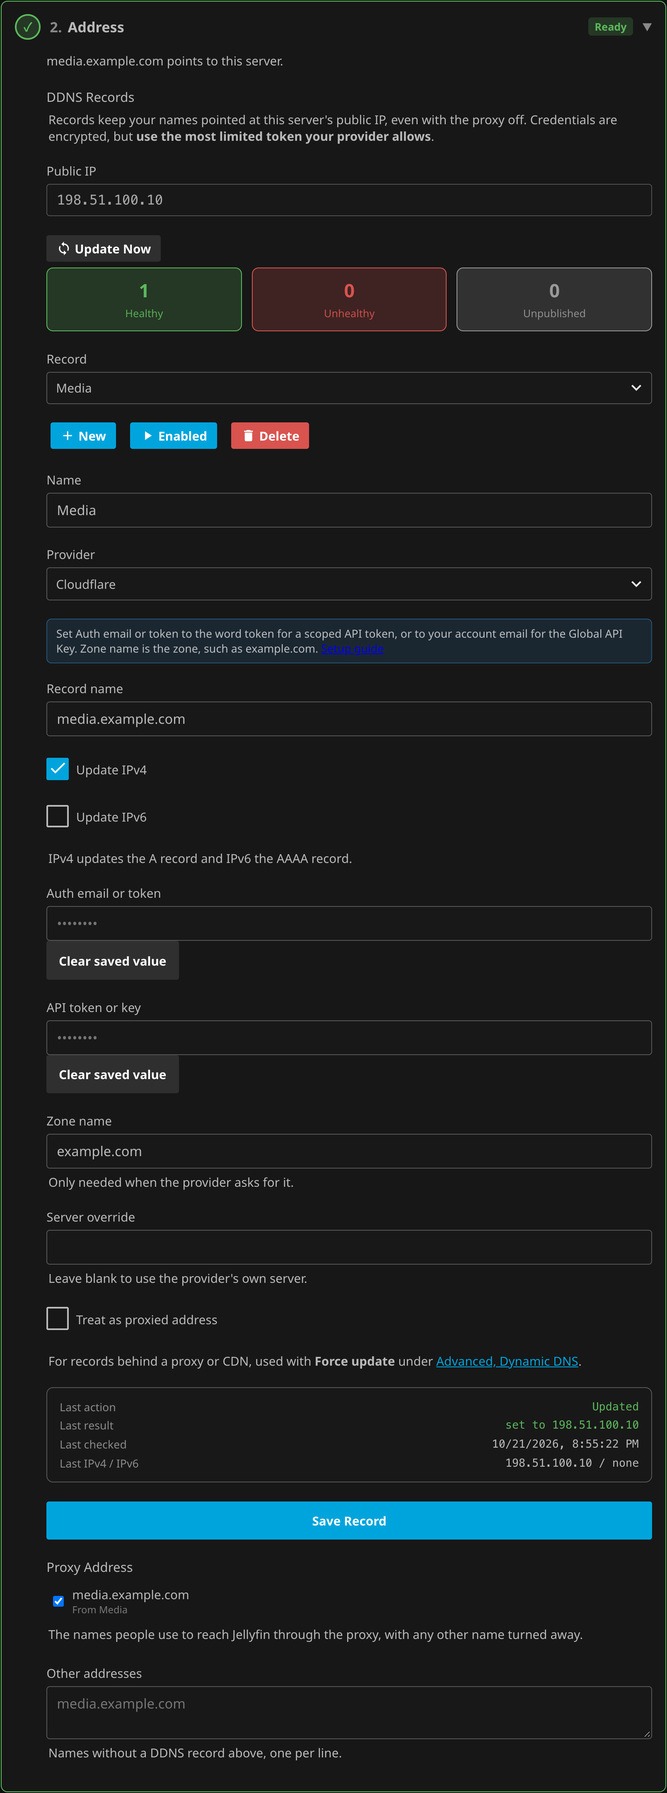
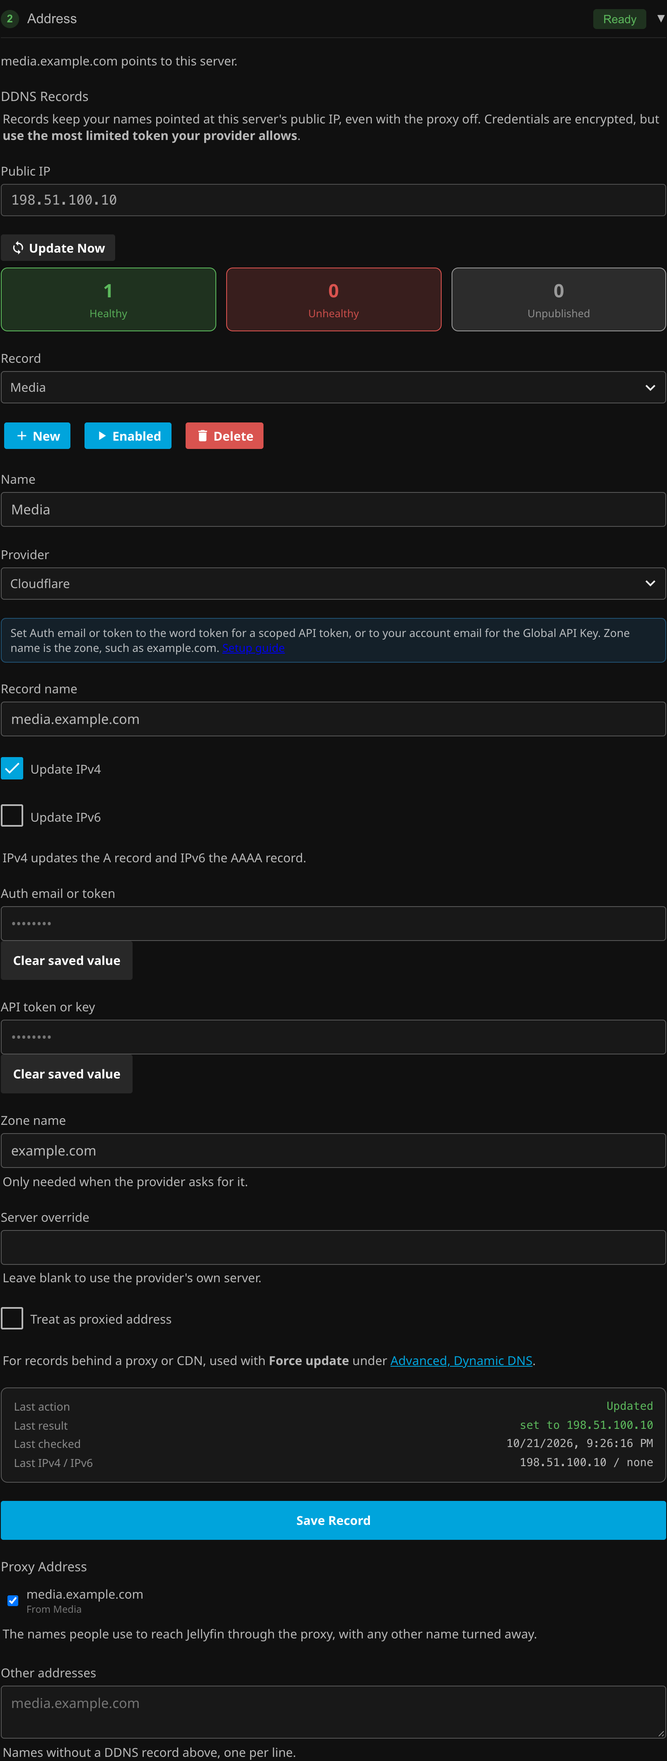
Use the shared collapsible steps and badges on Configuration, and restyle the share card

diff --git a/Jellyfin.Plugin.RemoteAccess/Configuration/ddns_configuration.html b/Jellyfin.Plugin.RemoteAccess/Configuration/ddns_configuration.html
@@ -18,19 +18,16 @@
                     <div id="everyoneLocal" class="jpk-warn hidden"></div>
                     <div id="countryNote" class="jpk-info hidden"></div>
 
-                    <ol class="ddns-steps">
+                    <div class="ddns-steps">
 
                         <!-- Step 1: the proxy itself -->
-                        <li class="ddns-step" id="stepPower" data-state="gray">
-                            <h2 class="ddns-step-heading">
-                                <button type="button" class="ddns-step-head" data-step="Power" aria-expanded="true" aria-controls="bodyPower">
-                                    <span class="ddns-step-icon" id="iconPower" aria-hidden="true"></span>
-                                    <span class="ddns-step-title"><span class="ddns-step-num">1.</span> Proxy on</span>
-                                    <span class="ddns-step-state" id="statePower"></span>
-                                    <span class="ddns-step-chevron" aria-hidden="true">&#9660;</span>
-                                </button>
-                            </h2>
-                            <div class="ddns-step-body" id="bodyPower">
+                        <div class="jpk-collapsible-section ddns-step" id="stepPower" data-state="gray">
+                            <button type="button" class="jpk-collapsible-header" data-target="bodyPower" aria-expanded="true" aria-controls="bodyPower">
+                                <span class="jpk-collapsible-title jpk-step-title"><span class="jpk-step-number" id="iconPower" aria-hidden="true">1</span>Proxy on</span>
+                                <span class="jpk-badge gray" id="statePower"></span>
+                                <span class="jpk-collapsible-icon" aria-hidden="true">&#9660;</span>
+                            </button>
+                            <div class="jpk-collapsible-content" id="bodyPower">
                                 <div class="ddns-step-text" id="textPower" aria-live="polite"></div>
                                 <div class="checkboxContainer checkboxContainer-withDescription">
                                     <label class="emby-checkbox-label">
@@ -40,19 +37,16 @@
                                     <div class="fieldDescription checkboxFieldDescription">Starts the proxy once saved, and Jellyfin is untouched until you select Trust the Proxy in step 5.</div>
                                 </div>
                             </div>
-                        </li>
+                        </div>
 
                         <!-- Step 2: the address, with the DDNS records that keep it current -->
-                        <li class="ddns-step" id="stepAddress" data-state="gray">
-                            <h2 class="ddns-step-heading">
-                                <button type="button" class="ddns-step-head" data-step="Address" aria-expanded="true" aria-controls="bodyAddress">
-                                    <span class="ddns-step-icon" id="iconAddress" aria-hidden="true"></span>
-                                    <span class="ddns-step-title"><span class="ddns-step-num">2.</span> Address</span>
-                                    <span class="ddns-step-state" id="stateAddress"></span>
-                                    <span class="ddns-step-chevron" aria-hidden="true">&#9660;</span>
-                                </button>
-                            </h2>
-                            <div class="ddns-step-body" id="bodyAddress">
+                        <div class="jpk-collapsible-section ddns-step" id="stepAddress" data-state="gray">
+                            <button type="button" class="jpk-collapsible-header" data-target="bodyAddress" aria-expanded="true" aria-controls="bodyAddress">
+                                <span class="jpk-collapsible-title jpk-step-title"><span class="jpk-step-number" id="iconAddress" aria-hidden="true">2</span>Address</span>
+                                <span class="jpk-badge gray" id="stateAddress"></span>
+                                <span class="jpk-collapsible-icon" aria-hidden="true">&#9660;</span>
+                            </button>
+                            <div class="jpk-collapsible-content" id="bodyAddress">
                                 <div class="ddns-step-text" id="textAddress" aria-live="polite"></div>
                                 <div id="nameDetails" class="jpk-record-card hidden">
                                     <div class="jpk-record-row"><span class="jpk-record-label">Name</span><span id="nameHostname" class="jpk-mono"></span></div>
@@ -253,19 +247,16 @@
                                     <div class="fieldDescription">Names without a DDNS record above, one per line.</div>
                                 </div>
                             </div>
-                        </li>
+                        </div>
 
                         <!-- Step 3: the certificate -->
-                        <li class="ddns-step" id="stepCertificate" data-state="gray">
-                            <h2 class="ddns-step-heading">
-                                <button type="button" class="ddns-step-head" data-step="Certificate" aria-expanded="true" aria-controls="bodyCertificate">
-                                    <span class="ddns-step-icon" id="iconCertificate" aria-hidden="true"></span>
-                                    <span class="ddns-step-title"><span class="ddns-step-num">3.</span> Certificate</span>
-                                    <span class="ddns-step-state" id="stateCertificate"></span>
-                                    <span class="ddns-step-chevron" aria-hidden="true">&#9660;</span>
-                                </button>
-                            </h2>
-                            <div class="ddns-step-body" id="bodyCertificate">
+                        <div class="jpk-collapsible-section ddns-step" id="stepCertificate" data-state="gray">
+                            <button type="button" class="jpk-collapsible-header" data-target="bodyCertificate" aria-expanded="true" aria-controls="bodyCertificate">
+                                <span class="jpk-collapsible-title jpk-step-title"><span class="jpk-step-number" id="iconCertificate" aria-hidden="true">3</span>Certificate</span>
+                                <span class="jpk-badge gray" id="stateCertificate"></span>
+                                <span class="jpk-collapsible-icon" aria-hidden="true">&#9660;</span>
+                            </button>
+                            <div class="jpk-collapsible-content" id="bodyCertificate">
                                 <div class="ddns-step-text" id="textCertificate" aria-live="polite"></div>
                                 <div class="selectContainer">
                                     <label class="selectLabel" for="certMode">Source</label>
@@ -329,19 +320,16 @@
                                     <span id="certRequestStatus" class="jpk-status-text" aria-live="polite"></span>
                                 </div>
                             </div>
-                        </li>
+                        </div>
 
                         <!-- Step 4: the router -->
-                        <li class="ddns-step" id="stepRouter" data-state="gray">
-                            <h2 class="ddns-step-heading">
-                                <button type="button" class="ddns-step-head" data-step="Router" aria-expanded="true" aria-controls="bodyRouter">
-                                    <span class="ddns-step-icon" id="iconRouter" aria-hidden="true"></span>
-                                    <span class="ddns-step-title"><span class="ddns-step-num">4.</span> Router</span>
-                                    <span class="ddns-step-state" id="stateRouter"></span>
-                                    <span class="ddns-step-chevron" aria-hidden="true">&#9660;</span>
-                                </button>
-                            </h2>
-                            <div class="ddns-step-body" id="bodyRouter">
+                        <div class="jpk-collapsible-section ddns-step" id="stepRouter" data-state="gray">
+                            <button type="button" class="jpk-collapsible-header" data-target="bodyRouter" aria-expanded="true" aria-controls="bodyRouter">
+                                <span class="jpk-collapsible-title jpk-step-title"><span class="jpk-step-number" id="iconRouter" aria-hidden="true">4</span>Router</span>
+                                <span class="jpk-badge gray" id="stateRouter"></span>
+                                <span class="jpk-collapsible-icon" aria-hidden="true">&#9660;</span>
+                            </button>
+                            <div class="jpk-collapsible-content" id="bodyRouter">
                                 <div class="ddns-step-text" id="textRouter" aria-live="polite"></div>
                                 <div id="routerError" class="jpk-error hidden"></div>
                                 <div id="routerManual" class="hidden">
@@ -363,19 +351,16 @@
                                 </div>
                                 <span id="routerStatus" class="jpk-status-text" aria-live="polite"></span>
                             </div>
-                        </li>
+                        </div>
 
                         <!-- Step 5: Jellyfin trusts the proxy -->
-                        <li class="ddns-step" id="stepTrust" data-state="gray">
-                            <h2 class="ddns-step-heading">
-                                <button type="button" class="ddns-step-head" data-step="Trust" aria-expanded="true" aria-controls="bodyTrust">
-                                    <span class="ddns-step-icon" id="iconTrust" aria-hidden="true"></span>
-                                    <span class="ddns-step-title"><span class="ddns-step-num">5.</span> Trust the Proxy</span>
-                                    <span class="ddns-step-state" id="stateTrust"></span>
-                                    <span class="ddns-step-chevron" aria-hidden="true">&#9660;</span>
-                                </button>
-                            </h2>
-                            <div class="ddns-step-body" id="bodyTrust">
+                        <div class="jpk-collapsible-section ddns-step" id="stepTrust" data-state="gray">
+                            <button type="button" class="jpk-collapsible-header" data-target="bodyTrust" aria-expanded="true" aria-controls="bodyTrust">
+                                <span class="jpk-collapsible-title jpk-step-title"><span class="jpk-step-number" id="iconTrust" aria-hidden="true">5</span>Trust the Proxy</span>
+                                <span class="jpk-badge gray" id="stateTrust"></span>
+                                <span class="jpk-collapsible-icon" aria-hidden="true">&#9660;</span>
+                            </button>
+                            <div class="jpk-collapsible-content" id="bodyTrust">
                                 <div class="ddns-step-text" id="textTrust" aria-live="polite"></div>
                                 <div class="fieldDescription">Lets Jellyfin see each visitor's real address while keeping its own ports, and restarts Jellyfin once.</div>
                                 <div id="trustError" class="jpk-error hidden"></div>
@@ -390,19 +375,16 @@
                                 </div>
                                 <span id="trustStatus" class="jpk-status-text" aria-live="polite"></span>
                             </div>
-                        </li>
+                        </div>
 
                         <!-- Step 6: a test from outside -->
-                        <li class="ddns-step" id="stepReach" data-state="gray">
-                            <h2 class="ddns-step-heading">
-                                <button type="button" class="ddns-step-head" data-step="Reach" aria-expanded="true" aria-controls="bodyReach">
-                                    <span class="ddns-step-icon" id="iconReach" aria-hidden="true"></span>
-                                    <span class="ddns-step-title"><span class="ddns-step-num">6.</span> Reachable from outside</span>
-                                    <span class="ddns-step-state" id="stateReach"></span>
-                                    <span class="ddns-step-chevron" aria-hidden="true">&#9660;</span>
-                                </button>
-                            </h2>
-                            <div class="ddns-step-body" id="bodyReach">
+                        <div class="jpk-collapsible-section ddns-step" id="stepReach" data-state="gray">
+                            <button type="button" class="jpk-collapsible-header" data-target="bodyReach" aria-expanded="true" aria-controls="bodyReach">
+                                <span class="jpk-collapsible-title jpk-step-title"><span class="jpk-step-number" id="iconReach" aria-hidden="true">6</span>Reachable from outside</span>
+                                <span class="jpk-badge gray" id="stateReach"></span>
+                                <span class="jpk-collapsible-icon" aria-hidden="true">&#9660;</span>
+                            </button>
+                            <div class="jpk-collapsible-content" id="bodyReach">
                                 <div class="ddns-step-text" id="textReach" aria-live="polite"></div>
                                 <div id="reachNodes" class="jpk-record-card hidden"></div>
                                 <div class="ddns-button-row">
@@ -413,9 +395,9 @@
                                 <div class="fieldDescription">This asks check-host.net to connect to your address from other countries, so your address is sent to that service.</div>
                                 <span id="reachStatus" class="jpk-status-text" aria-live="polite"></span>
                             </div>
-                        </li>
+                        </div>
 
-                    </ol>
+                    </div>
 
                     <!-- Saves the proxy settings in steps 1 to 3. Records save with Save Record. -->
                     <div class="inputContainer">
@@ -435,20 +417,13 @@
     <link rel="stylesheet" href="configurationpage?name=ddns_common.css">
     <style>
         #DynamicDnsConfigurationPage #summary { font-size: 1.05em; }
-        #DynamicDnsConfigurationPage .ddns-steps { list-style: none; margin: 1em 0 0; padding: 0; }
-        #DynamicDnsConfigurationPage .ddns-step { border: 1px solid var(--jpk-border); border-radius: 8px; padding: 0; margin: 0 0 1em 0; background: rgba(255, 255, 255, 0.03); transition: opacity 0.2s; }
-        #DynamicDnsConfigurationPage .ddns-step-heading { margin: 0; font-size: 1em; font-weight: inherit; }
-        /* The whole header is one button that folds its step. */
-        #DynamicDnsConfigurationPage .ddns-step-head { display: flex; align-items: center; gap: 0.75em; width: 100%; padding: 1em 1.1em; margin: 0; background: none; border: 0; color: inherit; font: inherit; text-align: left; cursor: pointer; border-radius: 8px; }
-        #DynamicDnsConfigurationPage .ddns-step-head:focus-visible { outline: 2px solid var(--jpk-accent, #00a4dc); outline-offset: -2px; }
-        #DynamicDnsConfigurationPage .ddns-step-title { margin: 0; font-size: 1.15em; font-weight: 600; flex: 1 1 auto; min-width: 0; }
-        #DynamicDnsConfigurationPage .ddns-step-num { opacity: 0.7; margin-right: 0.15em; }
-        #DynamicDnsConfigurationPage .ddns-step-icon { flex: 0 0 1.8em; width: 1.8em; height: 1.8em; border-radius: 50%; display: flex; align-items: center; justify-content: center; font-weight: 700; border: 2px solid currentColor; }
-        #DynamicDnsConfigurationPage .ddns-step-state { flex: 0 0 auto; font-size: 0.85em; font-weight: 600; padding: 0.2em 0.6em; border-radius: 4px; white-space: nowrap; }
-        #DynamicDnsConfigurationPage .ddns-step-chevron { flex: 0 0 auto; font-size: 0.8em; opacity: 0.7; transition: transform 0.2s; }
-        #DynamicDnsConfigurationPage .ddns-step.ddns-step-collapsed .ddns-step-chevron { transform: rotate(-90deg); }
-        #DynamicDnsConfigurationPage .ddns-step.ddns-step-collapsed .ddns-step-body { display: none; }
-        #DynamicDnsConfigurationPage .ddns-step-body { margin-left: 2.55em; padding: 0 1.1em 1em 1.1em; }
+        #DynamicDnsConfigurationPage .ddns-steps { margin-top: 1em; }
+        /* The step header carries its state as a badge before the fold arrow, and its number takes the state's colour. */
+        #DynamicDnsConfigurationPage .ddns-step .jpk-collapsible-header .jpk-badge { margin-right: 0.8em; }
+        #DynamicDnsConfigurationPage .ddns-step .jpk-step-number { flex: 0 0 auto; }
+        #DynamicDnsConfigurationPage .ddns-step[data-state="green"] .jpk-step-number { color: var(--jpk-green-fg); background: var(--jpk-green-bg); }
+        #DynamicDnsConfigurationPage .ddns-step[data-state="amber"] .jpk-step-number { color: var(--jpk-orange-fg); background: var(--jpk-orange-bg); }
+        #DynamicDnsConfigurationPage .ddns-step[data-state="red"] .jpk-step-number { color: var(--jpk-red-fg); background: var(--jpk-red-bg); }
         #DynamicDnsConfigurationPage .ddns-step-text { margin: 0 0 1em; line-height: 1.5; }
         #DynamicDnsConfigurationPage .ddns-step-subtitle { margin: 1.4em 0 0.4em; font-size: 1.05em; }
         #DynamicDnsConfigurationPage .ddns-step-intro { margin-bottom: 1em; }
@@ -459,23 +434,5 @@
         #DynamicDnsConfigurationPage .ddns-step .jpk-cards { margin: 1em 0; }
         #DynamicDnsConfigurationPage .ddns-save-note { margin-bottom: 0.6em; }
         #DynamicDnsConfigurationPage #routerInstruction { line-height: 1.6; }
-        #DynamicDnsConfigurationPage .ddns-step[data-state="green"] .ddns-step-icon,
-        #DynamicDnsConfigurationPage .ddns-step[data-state="green"] .ddns-step-state { color: var(--jpk-green-fg); background: var(--jpk-green-bg); }
-        #DynamicDnsConfigurationPage .ddns-step[data-state="amber"] .ddns-step-icon,
-        #DynamicDnsConfigurationPage .ddns-step[data-state="amber"] .ddns-step-state { color: var(--jpk-orange-fg); background: var(--jpk-orange-bg); }
-        #DynamicDnsConfigurationPage .ddns-step[data-state="red"] .ddns-step-icon,
-        #DynamicDnsConfigurationPage .ddns-step[data-state="red"] .ddns-step-state { color: var(--jpk-red-fg); background: var(--jpk-red-bg); }
-        #DynamicDnsConfigurationPage .ddns-step[data-state="gray"] .ddns-step-icon,
-        #DynamicDnsConfigurationPage .ddns-step[data-state="gray"] .ddns-step-state { color: var(--jpk-gray-fg); background: var(--jpk-gray-bg); }
-        #DynamicDnsConfigurationPage .ddns-step[data-state="green"] { border-color: var(--jpk-green-fg); }
-        #DynamicDnsConfigurationPage .ddns-step[data-state="red"] { border-color: var(--jpk-red-fg); }
-        /* Steps after the first unfinished one still show their state, but step back until it is done. */
-        #DynamicDnsConfigurationPage .ddns-step.ddns-step-later { opacity: 0.6; }
-        #DynamicDnsConfigurationPage .ddns-step.ddns-step-later:focus-within { opacity: 1; }
-        @media (max-width: 600px) {
-            #DynamicDnsConfigurationPage .ddns-step-head { padding: 0.9em 0.8em; gap: 0.5em; }
-            #DynamicDnsConfigurationPage .ddns-step-body { margin-left: 0; padding: 0 0.8em 0.9em 0.8em; }
-            #DynamicDnsConfigurationPage .ddns-step-title { font-size: 1.05em; }
-        }
     </style>
 </div>

diff --git a/Jellyfin.Plugin.RemoteAccess/Configuration/ddns_dashboard.html b/Jellyfin.Plugin.RemoteAccess/Configuration/ddns_dashboard.html
@@ -15,12 +15,16 @@
                     <div id="shareCard" class="ddns-share hidden">
                         <div id="shareQr" class="ddns-share-qr" role="img" aria-label="QR code for your server's address"></div>
                         <div class="ddns-share-body">
-                            <div class="ddns-share-label">Your server's address</div>
+                            <div class="ddns-share-head">
+                                <h2 class="ddns-share-title">Share Your Server</h2>
+                                <span id="shareBadge" class="jpk-badge green">Public</span>
+                            </div>
                             <a id="shareUrl" class="ddns-share-url" target="_blank" rel="noopener noreferrer"></a>
-                            <div id="shareNote" class="fieldDescription">Scan the code with a phone to open it, or send the address to family to add in their Jellyfin app.</div>
-                            <div class="ddns-button-row">
-                                <button is="emby-button" type="button" id="btnCopyShare" class="raised jpk-secondary"><span>Copy</span></button>
-                                <button is="emby-button" type="button" id="btnShare" class="raised jpk-secondary hidden"><span>Share</span></button>
+                            <div id="shareNote" class="fieldDescription">Scan the code with a phone, or send the address to family for their Jellyfin app.</div>
+                            <div id="shareHomeOnly" class="jpk-warn hidden">This address only works on your home network. Pick a public one in step 2 of <a href="#/configurationpage?name=ddns_configuration">Configuration</a> to share it outside.</div>
+                            <div class="ddns-share-actions">
+                                <button is="emby-button" type="button" id="btnCopyShare" class="raised jpk-icon-btn jpk-secondary"><span class="material-icons" aria-hidden="true">content_copy</span><span>Copy</span></button>
+                                <button is="emby-button" type="button" id="btnShare" class="raised jpk-icon-btn jpk-secondary hidden"><span class="material-icons" aria-hidden="true">share</span><span>Share</span></button>
                             </div>
                         </div>
                     </div>
@@ -75,17 +79,22 @@
     <style>
         /* The share card: the QR code beside the address, stacked on a phone. The code stays black on white in
            every theme, the form cameras read best. */
-        #DynamicDnsDashboardPage .ddns-share { display: flex; gap: 1.2em; align-items: center; padding: 1em; margin-bottom: 1.5em; border: 1px solid var(--jpk-border, rgba(255, 255, 255, 0.12)); border-radius: 8px; }
+        #DynamicDnsDashboardPage .ddns-share { display: flex; gap: 1.5em; align-items: center; padding: 1.25em; margin-bottom: 2em; background: var(--jpk-surface); border: 1px solid var(--jpk-border); border-radius: 8px; }
         #DynamicDnsDashboardPage .ddns-share.hidden { display: none; }
-        #DynamicDnsDashboardPage .ddns-share-qr { flex: 0 0 auto; width: 9em; height: 9em; background: #fff; border-radius: 6px; }
+        #DynamicDnsDashboardPage .ddns-share-qr { flex: 0 0 auto; width: 8em; height: 8em; padding: 0.4em; background: #fff; border-radius: 8px; }
         #DynamicDnsDashboardPage .ddns-share-qr svg { display: block; width: 100%; height: 100%; }
         #DynamicDnsDashboardPage .ddns-share-body { flex: 1 1 auto; min-width: 0; }
-        #DynamicDnsDashboardPage .ddns-share-label { opacity: 0.7; font-size: 0.9em; }
-        #DynamicDnsDashboardPage .ddns-share-url { display: block; font-size: 1.3em; font-weight: 600; margin: 0.2em 0 0.4em; overflow-wrap: anywhere; color: var(--jpk-accent, #00a4dc); text-decoration: none; }
+        #DynamicDnsDashboardPage .ddns-share-head { display: flex; align-items: center; gap: 0.75em; flex-wrap: wrap; }
+        #DynamicDnsDashboardPage .ddns-share-title { margin: 0; font-size: 1.1em; font-weight: 500; }
+        #DynamicDnsDashboardPage .ddns-share-url { display: block; font-family: var(--jpk-mono); font-size: 1.35em; margin: 0.45em 0 0.35em; overflow-wrap: anywhere; color: var(--jpk-accent); text-decoration: none; }
         #DynamicDnsDashboardPage .ddns-share-url:hover { text-decoration: underline; }
-        #DynamicDnsDashboardPage .ddns-share .ddns-button-row > button { flex: 0 0 auto; }
+        #DynamicDnsDashboardPage .ddns-share .jpk-warn { margin: 0.6em 0 0 !important; }
+        #DynamicDnsDashboardPage .ddns-share .jpk-warn a { color: inherit; font-weight: 600; }
+        #DynamicDnsDashboardPage .ddns-share-actions { display: flex; flex-wrap: wrap; gap: 0.6em; margin-top: 1em; }
+        #DynamicDnsDashboardPage .ddns-share-actions > button { margin: 0; }
         @media (max-width: 600px) {
-            #DynamicDnsDashboardPage .ddns-share { flex-direction: column; align-items: flex-start; }
+            #DynamicDnsDashboardPage .ddns-share { flex-direction: column; align-items: stretch; text-align: left; }
+            #DynamicDnsDashboardPage .ddns-share-qr { align-self: center; width: 10em; height: 10em; }
         }
         /* The view toggles always split one line, however narrow. */
         #DynamicDnsDashboardPage .ddns-map-switch > button { flex: 1 1 0; min-width: 0; }

diff --git a/Jellyfin.Plugin.RemoteAccess/Configuration/ddns_configuration.js b/Jellyfin.Plugin.RemoteAccess/Configuration/ddns_configuration.js
@@ -891,7 +891,7 @@ export default function (view) {
         { key: 'Reach', title: 'Reachable from outside' }
     ];
 
-    var ICONS = { green: '✓', amber: '!', red: '✕', gray: '○' };
+    var BADGES = { green: 'green', amber: 'orange', red: 'red', gray: 'gray' };
 
     // The last test from outside run from this page, kept until the status carries a newer one.
     var lastReach = null;
@@ -1032,15 +1032,12 @@ export default function (view) {
         return step('amber', 'Test failed', 'The test could not run. ' + reach.Error);
     }
 
+    // Steps fold with the shared collapsible sections. This opens or folds one from code.
     function setStepOpen(key, open) {
-        var li = Shared.getEl('step' + key);
-        li.classList.toggle('ddns-step-collapsed', !open);
-        li.querySelector('.ddns-step-head').setAttribute('aria-expanded', open ? 'true' : 'false');
-    }
-
-    function toggleStep(e) {
-        var key = e.currentTarget.getAttribute('data-step');
-        setStepOpen(key, Shared.getEl('step' + key).classList.contains('ddns-step-collapsed'));
+        var head = Shared.getEl('step' + key).querySelector('.jpk-collapsible-header');
+        head.classList.toggle('collapsed', !open);
+        head.setAttribute('aria-expanded', open ? 'true' : 'false');
+        Shared.getEl('body' + key).classList.toggle('collapsed', !open);
     }
 
     // On the first render of a visit, open every step that is not done and fold the rest away.
@@ -1050,12 +1047,12 @@ export default function (view) {
         STEPS.forEach(function (s, i) { setStepOpen(s.key, results[i].state !== 'green' && !results[i].idle); });
     }
 
-    function renderStep(key, result, later) {
+    function renderStep(key, result) {
         var li = Shared.getEl('step' + key);
         li.setAttribute('data-state', result.state);
-        li.classList.toggle('ddns-step-later', later);
-        Shared.getEl('icon' + key).textContent = ICONS[result.state];
-        Shared.getEl('state' + key).textContent = result.word;
+        var badge = Shared.getEl('state' + key);
+        badge.className = 'jpk-badge ' + BADGES[result.state];
+        badge.textContent = result.word;
         Shared.getEl('text' + key).textContent = result.text;
     }
 
@@ -1151,8 +1148,8 @@ export default function (view) {
         if (!st || !settings) return;
         lastStatus = st;
         var results = [assessPower(st), assessAddress(st), assessCertificate(st), assessRouter(st), assessTrust(st), assessReach(st)];
-        var first = renderSummary(st, results);
-        STEPS.forEach(function (s, i) { renderStep(s.key, results[i], first >= 0 && i > first); });
+        renderSummary(st, results);
+        STEPS.forEach(function (s, i) { renderStep(s.key, results[i]); });
         arrange(results);
 
         show('folderProblem', st.FolderProblem);
@@ -1219,9 +1216,6 @@ export default function (view) {
 
     function bind() {
         hostnames = createHostnamePicker(Shared, 'hostnamePicker', 'hostnames');
-        Array.prototype.forEach.call(view.querySelectorAll('.ddns-step-head'), function (head) {
-            head.addEventListener('click', toggleStep);
-        });
 
         // Step 2: records and the public IP.
         Shared.getEl('selectRecord').addEventListener('change', function () {

diff --git a/Jellyfin.Plugin.RemoteAccess/Configuration/ddns_dashboard.js b/Jellyfin.Plugin.RemoteAccess/Configuration/ddns_dashboard.js
@@ -386,9 +386,11 @@ export default function (view) {
             link.textContent = url.replace(/^https:\/\//, '');
             // Markup made by the server's own QR encoder from the address alone.
             Shared.getEl('shareQr').innerHTML = s.QrSvg || '';
-            Shared.getEl('shareNote').textContent = s.HomeOnly
-                ? 'This address only works on your home network. Choose a public address in step 2, Address, of the Configuration tab to share it outside.'
-                : 'Scan the code with a phone to open it, or send the address to family to add in their Jellyfin app.';
+            var badge = Shared.getEl('shareBadge');
+            badge.className = 'jpk-badge ' + (s.HomeOnly ? 'orange' : 'green');
+            badge.textContent = s.HomeOnly ? 'Home only' : 'Public';
+            Shared.setVisible('shareNote', !s.HomeOnly);
+            Shared.setVisible('shareHomeOnly', !!s.HomeOnly);
             Shared.setVisible('btnShare', typeof navigator.share === 'function');
         }).catch(function () {
             Shared.setVisible('shareCard', false);

diff --git a/docs/Dashboard.md b/docs/Dashboard.md
@@ -7,14 +7,15 @@ It is the page the **Remote Access** entry in the dashboard's side menu opens on
 
 ## Share your server
 
-Once Remote Access has an address, a card at the top shows **Your server's address** with a QR code. It is the
-first public name under **Proxy Address** in step 2 of the **Configuration** tab.
+Once Remote Access has an address, the **Share Your Server** card at the top shows it with a QR code. It is the
+first public name under **Proxy Address** in step 2 of the **Configuration** tab. A **Public** badge means
+anyone can open it, and **Home only** means only your home network can.
 
 * Scan the code with a phone camera to open the address.
 * **Copy** puts the address on the clipboard. **Share** opens the device's share sheet, on browsers that have one.
 * Family add the address as a server in their Jellyfin app.
-* When the only address is one your home network alone knows, such as `nas.lan`, the card says it only works on
-  your home network, since phones outside cannot open it. Choose a public address in step 2 to share it outside.
+* When the only address is one your home network alone knows, such as `nas.lan`, the card shows **Home only** and a note,
+  since phones outside cannot open it. Choose a public address in step 2 to share it outside.
 * The card stays hidden while the proxy is off, or has no address other than a wildcard.
 
 ![Share card](screenshots/Share%20Card.png)
